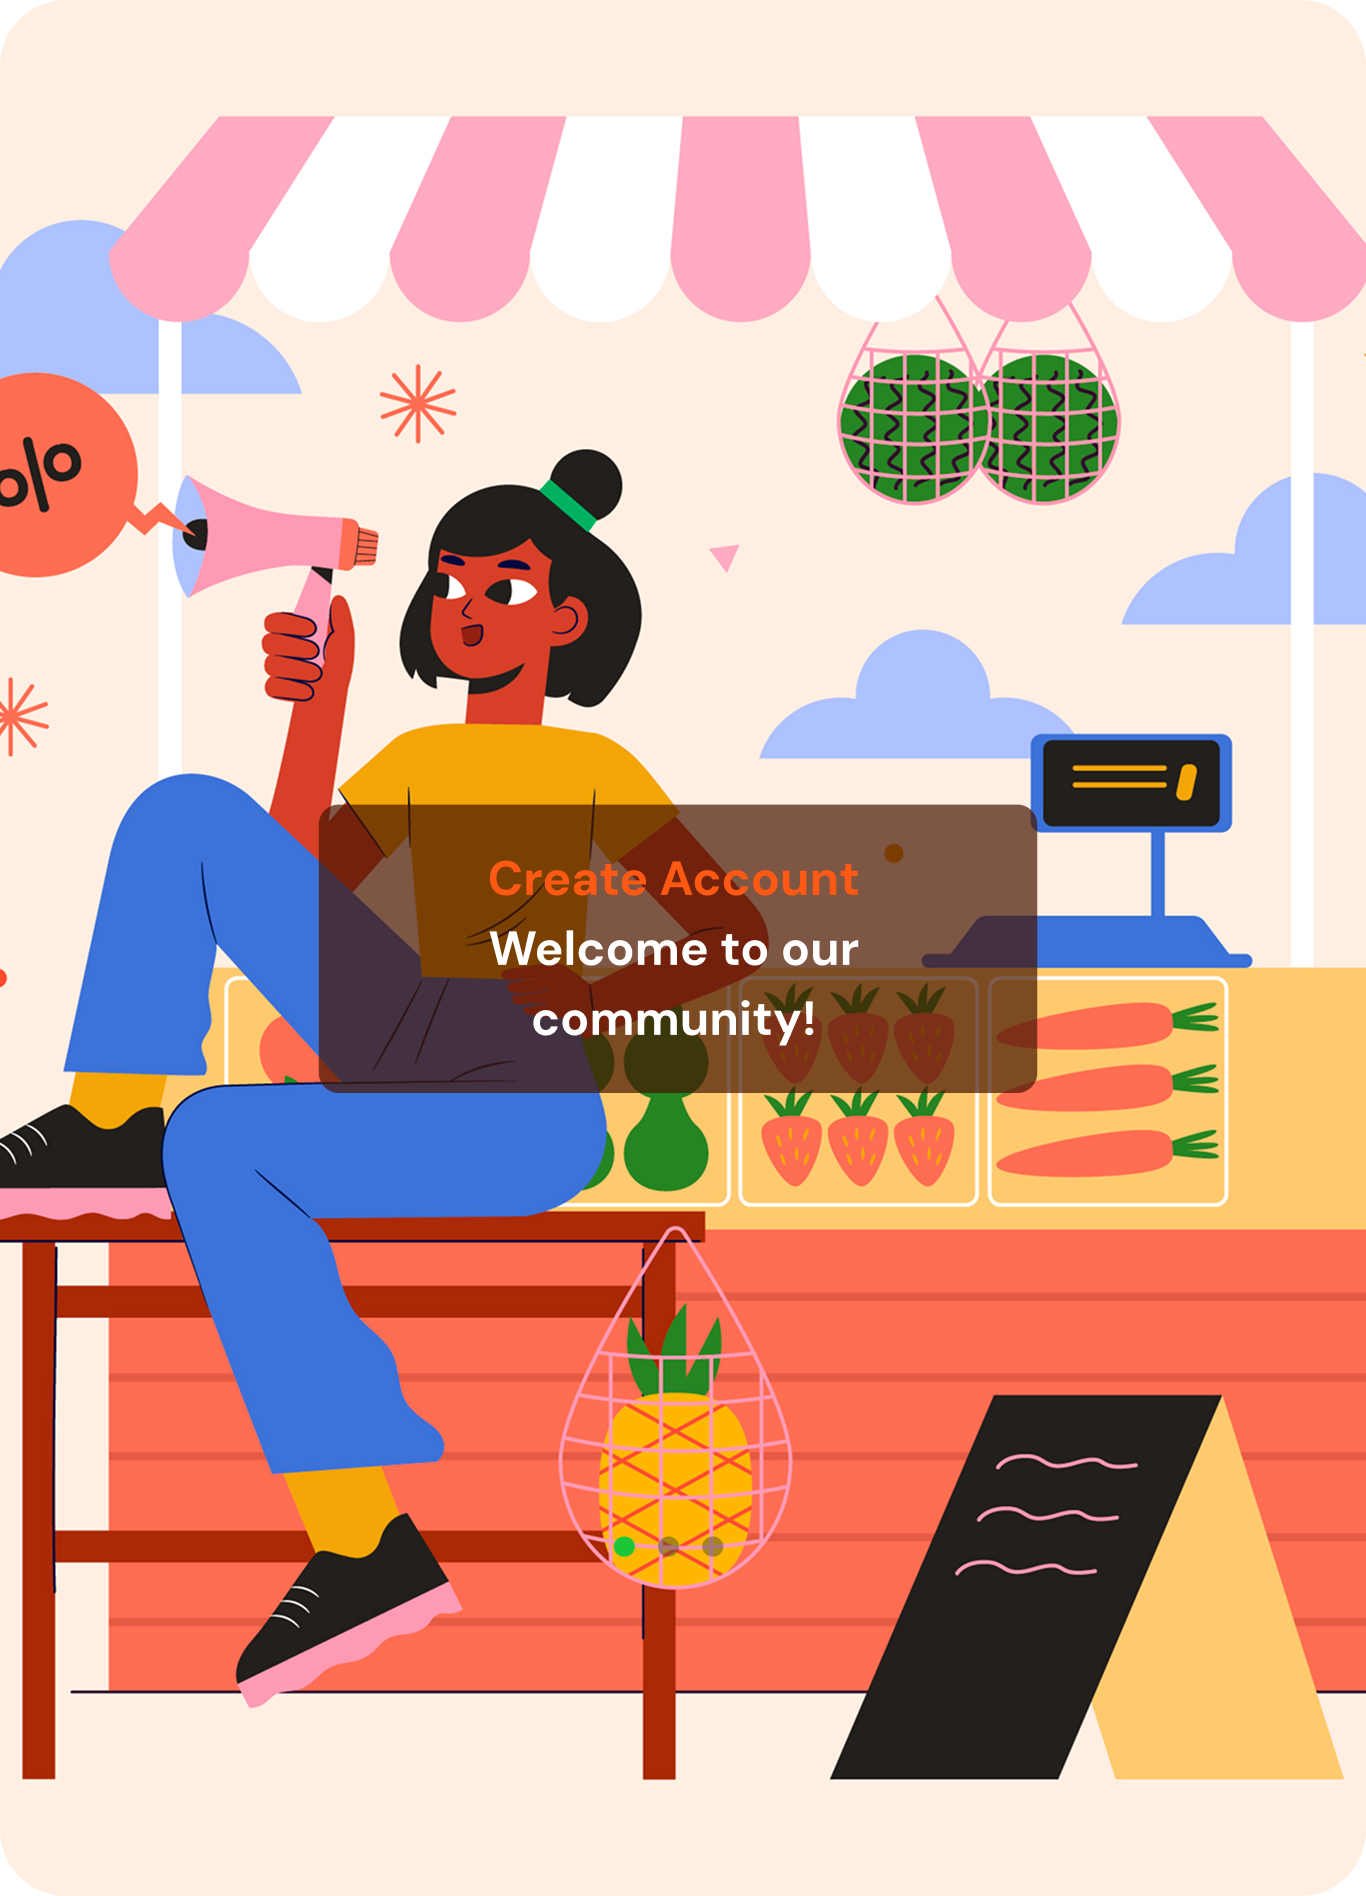
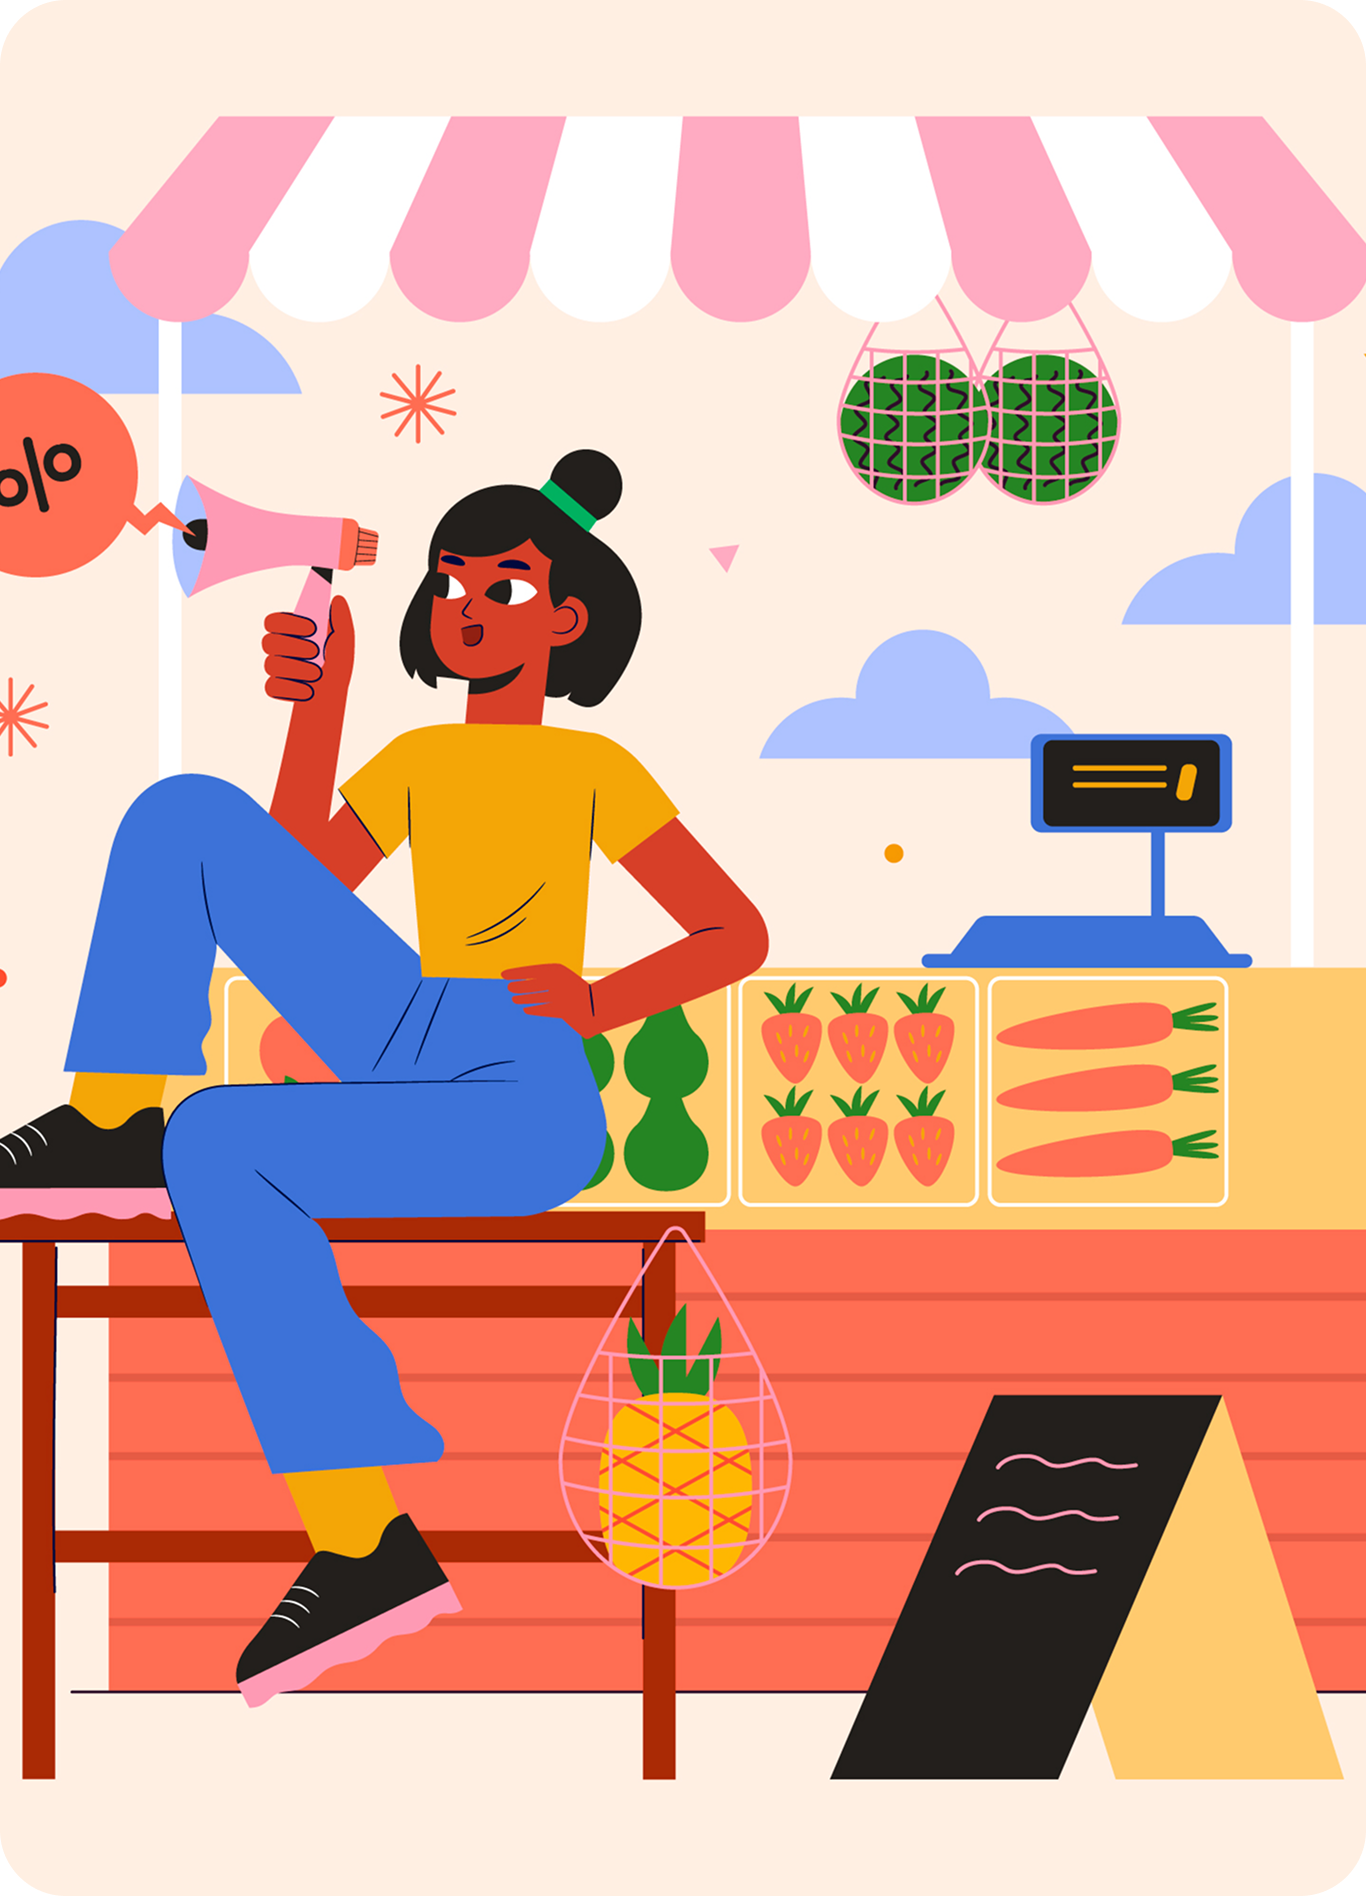
update images

Changed region(s): [[0.2152, 0.4045, 0.7687, 0.5912], [0.4305, 0.8091, 0.5227, 0.8402]]

diff --git a/src/components/Becomeavendor/VentorRegisterPage.tsx b/src/components/Becomeavendor/VentorRegisterPage.tsx
@@ -4,9 +4,7 @@ import { MdDone } from "react-icons/md";
 import Image from "next/image";
 import InputBox from "@/common/InputBox";
 import { FaCloudUploadAlt } from "react-icons/fa";
-// import Link from "next/link";
 import Swal from "sweetalert2";
-// import { signIn } from "next-auth/react";
 
 // Mapping account type to image, label, button text, and button URL
 const accountData = {
@@ -45,11 +43,6 @@ export default function VentorRegisterPage({
   const handleClick = () => {
     fileInputRef.current?.click();
   };
-  // const handleGoogleSignIn = () => {
-  //   const role = accountType === "vendor" ? "vendor" : "customer";
-  //   const callbackUrl = `${window.location.origin}/?role=${role}`;
-  //   signIn("google", { callbackUrl });
-  // };
   const handleFileChange = (e: React.ChangeEvent<HTMLInputElement>) => {
     if (e.target.files && e.target.files[0]) {
       const file = e.target.files[0];
@@ -161,21 +154,6 @@ export default function VentorRegisterPage({
                 </label>
               ))}
             </div>
-
-              {/* Google Sing Up Button */}
-            {/* <div className="space-y-8">
-              <button
-                onClick={handleGoogleSignIn}
-                className="w-full border  border-[#E7E7E7] rounded-[10px] px-4 py-3 my-4 font-semibold hover:bg-gray-100 transition-colors cursor-pointer text-[16px] font-inter flex justify-center items-center gap-2">
-                <Image
-                  src="/images/google.png"
-                  alt="Google Icon"
-                  width={20}
-                  height={20}
-                />
-                Sign Up with Google
-              </button>
-            </div> */}
 
             {/* Form */}
             <form className="space-y-8" onSubmit={handleSubmit}>

diff --git a/src/context/AuthContext.tsx b/src/context/AuthContext.tsx
@@ -30,24 +30,23 @@ const AuthContext = createContext<AuthContextType | undefined>(undefined);
 
 export function AuthProvider({ children }: { children: ReactNode }) {
   const [user, setUser] = useState<User | null>(null);
-
+  const [whatsappNumber, setWhatsappNumber] = useState<string | null>(null);
   const [loading, setLoading] = useState(true);
   const [showModal, setShowModal] = useState(false);
 
   // fetch user data
 
-  // const getUserData = async (userId: string) => {
-  //   try {
-  //     const response = await fetch(`/api/users?id=${userId}`);
-  //     const data = await response.json();
-  //     if (data?.user) {
-  //       setUser(data.user);
-  //       setUserLimit(data.user.productLimit);
-  //     }
-  //   } catch (error) {
-  //     console.error("Error fetching user:", error);
-  //   }
-  // };
+  const getUserData = async (userId: string) => {
+    try {
+      const response = await fetch(`/api/users?id=${userId}`);
+      const data = await response.json();
+      if (data?.user) {
+        setWhatsappNumber(data.user.whatsappNumber);
+      }
+    } catch (error) {
+      console.error("Error fetching user:", error);
+    }
+  };
 
   // 🧩 Load user from localStorage on first render
 
@@ -56,6 +55,10 @@ export function AuthProvider({ children }: { children: ReactNode }) {
     if (storedUser) {
       const parsedUser = JSON.parse(storedUser);
       setUser(parsedUser);
+
+      if (parsedUser.role === "vendor") {
+        getUserData(parsedUser.id!);
+      }
 
       // Show WhatsApp modal if vendor missing number
       if (parsedUser.role === "vendor" && !parsedUser.whatsappNumber) {
